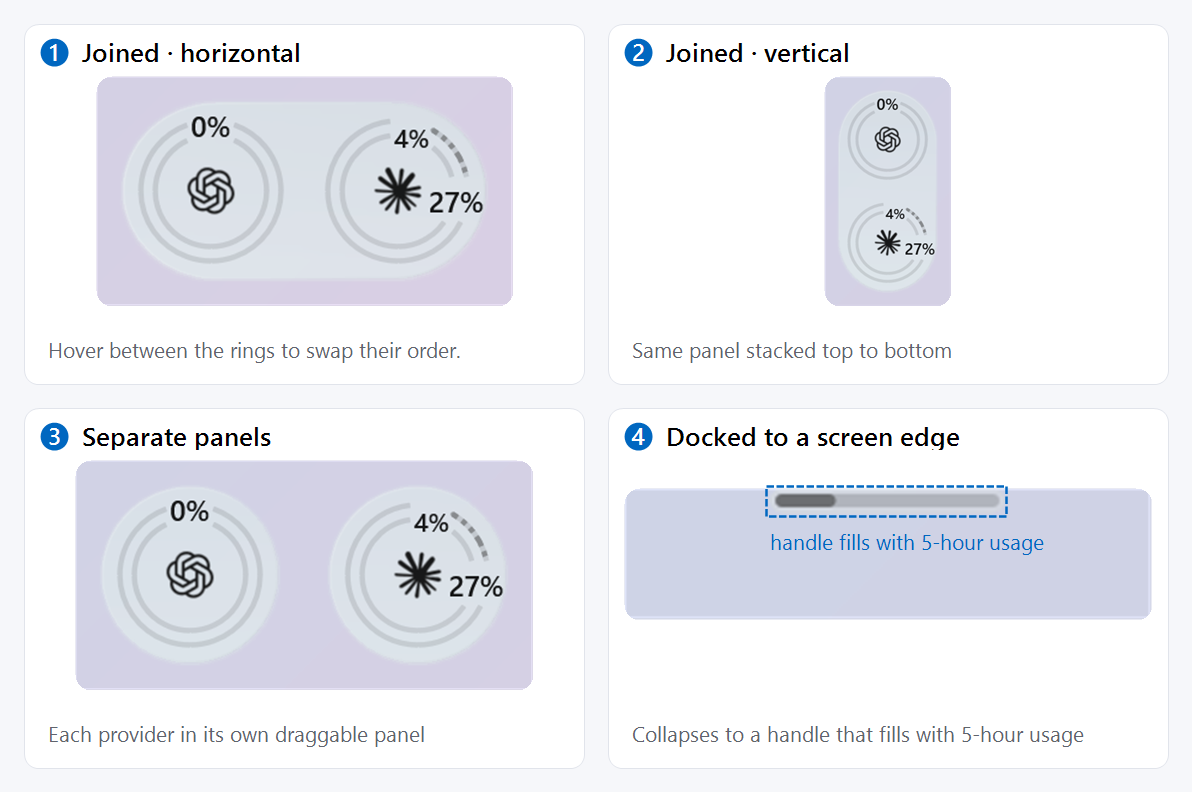
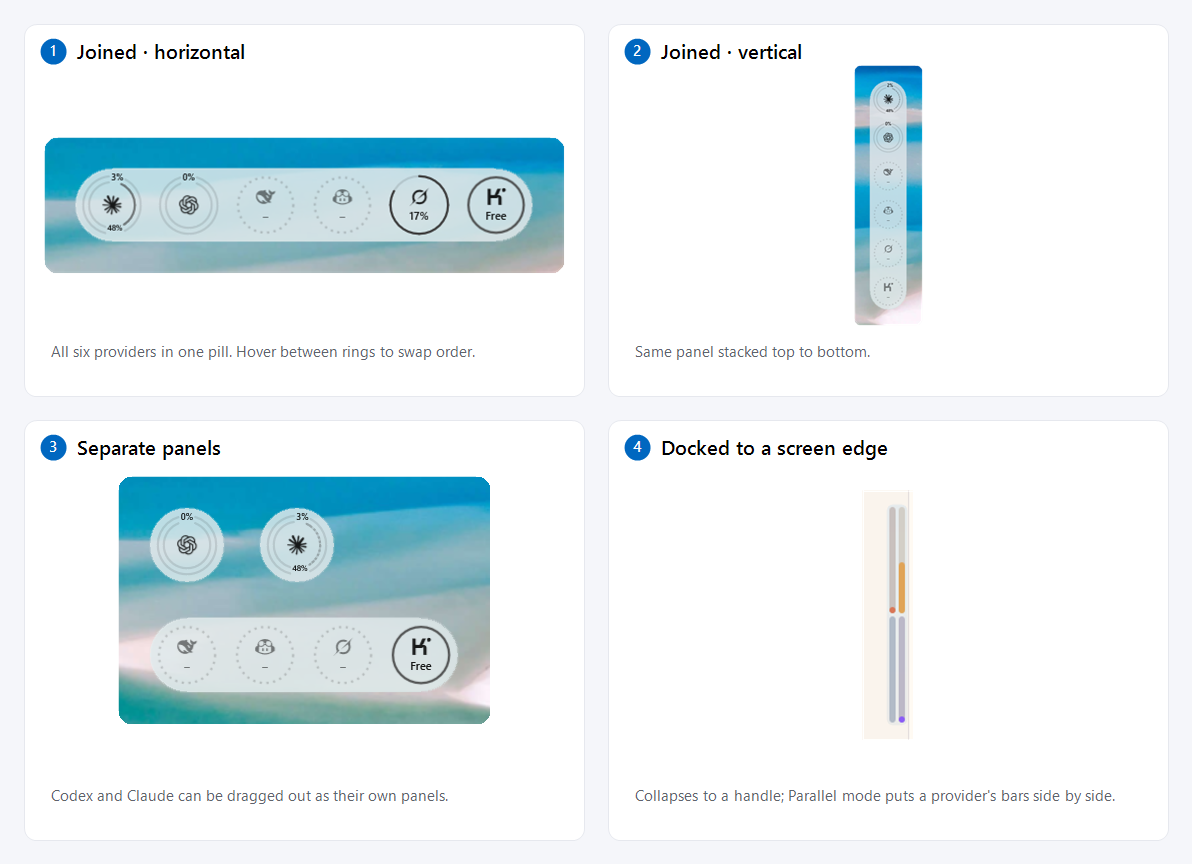
Reorder Settings cards, show all providers in Usage, refresh screenshots and README
Providers now sits above Usage and Taskbar above Auto-hide handle. The Usage card lists Grok, Copilot, Kimi and DeepSeek. Fix the taskbar position labels clashing with the quota 'Left' string and show 'Sign-in required' in English.

diff --git a/SettingsWindow.xaml b/SettingsWindow.xaml
@@ -82,26 +82,8 @@
                 
                     </StackPanel>
                     <StackPanel Spacing="8">
-                        <TextBlock Text="Taskbar" Style="{StaticResource Section}" />
-                <StackPanel Style="{StaticResource Card}">
-                    <Grid Style="{StaticResource Row}">
-                        <TextBlock Text="Taskbar meter" VerticalAlignment="Center" />
-                        <ToggleSwitch x:Name="TaskbarToggle" HorizontalAlignment="Right" OnContent="" OffContent="" MinWidth="0" Toggled="Taskbar_Changed" />
-                    </Grid>
-                    <Grid Style="{StaticResource Row}">
-                        <TextBlock Text="Position" VerticalAlignment="Center" />
-                        <ComboBox x:Name="TaskbarAlignCombo" Width="164" HorizontalAlignment="Right" SelectionChanged="Taskbar_Selection">
-                            <ComboBoxItem Content="Right" />
-                            <ComboBoxItem Content="Left" />
-                        </ComboBox>
-                    </Grid>
-                    <Grid Style="{StaticResource Row}">
-                        <TextBlock Text="Percentage text size" VerticalAlignment="Center" />
-                        <Slider x:Name="TaskbarTextSlider" Width="150" HorizontalAlignment="Right" Minimum="6" Maximum="16" StepFrequency="1" ValueChanged="TaskbarText_Changed" />
-                    </Grid>
-                </StackPanel>
-
-                
+                        <TextBlock Text="Providers" Style="{StaticResource Section}" />
+                        <StackPanel x:Name="ExperimentalCard" Style="{StaticResource Card}" />
                     </StackPanel>
                     <StackPanel Spacing="8">
                         <TextBlock Text="Usage" Style="{StaticResource Section}" />
@@ -110,6 +92,10 @@
                         <StackPanel VerticalAlignment="Center" Spacing="2" Margin="0,0,16,0">
                             <TextBlock x:Name="CodexStatusText" Text="Codex · checking…" Style="{StaticResource Caption}" />
                             <TextBlock x:Name="ClaudeStatusText" Text="Claude · checking…" Style="{StaticResource Caption}" />
+                            <TextBlock x:Name="GrokStatusText" Visibility="Collapsed" Style="{StaticResource Caption}" />
+                            <TextBlock x:Name="CopilotStatusText" Visibility="Collapsed" Style="{StaticResource Caption}" />
+                            <TextBlock x:Name="KimiStatusText" Visibility="Collapsed" Style="{StaticResource Caption}" />
+                            <TextBlock x:Name="DeepSeekStatusText" Visibility="Collapsed" Style="{StaticResource Caption}" />
                         </StackPanel>
                         <Button Content="Refresh" HorizontalAlignment="Right" VerticalAlignment="Center" Click="RefreshUsage_Click" />
                     </Grid>
@@ -130,10 +116,6 @@
                 </StackPanel>
 
                 
-                    </StackPanel>
-                    <StackPanel Spacing="8">
-                        <TextBlock Text="Providers" Style="{StaticResource Section}" />
-                        <StackPanel x:Name="ExperimentalCard" Style="{StaticResource Card}" />
                     </StackPanel>
                 </StackPanel>
                 <StackPanel x:Name="RightColumn" Grid.Column="1" Spacing="16">
@@ -198,6 +180,28 @@
                 
                     </StackPanel>
                     <StackPanel Spacing="8">
+                        <TextBlock Text="Taskbar" Style="{StaticResource Section}" />
+                <StackPanel Style="{StaticResource Card}">
+                    <Grid Style="{StaticResource Row}">
+                        <TextBlock Text="Taskbar meter" VerticalAlignment="Center" />
+                        <ToggleSwitch x:Name="TaskbarToggle" HorizontalAlignment="Right" OnContent="" OffContent="" MinWidth="0" Toggled="Taskbar_Changed" />
+                    </Grid>
+                    <Grid Style="{StaticResource Row}">
+                        <TextBlock Text="Position" VerticalAlignment="Center" />
+                        <ComboBox x:Name="TaskbarAlignCombo" Width="164" HorizontalAlignment="Right" SelectionChanged="Taskbar_Selection">
+                            <ComboBoxItem Content="Right side" />
+                            <ComboBoxItem Content="Left side" />
+                        </ComboBox>
+                    </Grid>
+                    <Grid Style="{StaticResource Row}">
+                        <TextBlock Text="Percentage text size" VerticalAlignment="Center" />
+                        <Slider x:Name="TaskbarTextSlider" Width="150" HorizontalAlignment="Right" Minimum="6" Maximum="16" StepFrequency="1" ValueChanged="TaskbarText_Changed" />
+                    </Grid>
+                </StackPanel>
+
+                
+                    </StackPanel>
+                    <StackPanel Spacing="8">
                         <TextBlock Text="Auto-hide handle" Style="{StaticResource Section}" />
                 <StackPanel x:Name="HandleCard" Style="{StaticResource Card}">
                     <Grid x:Name="Codex5Row" Style="{StaticResource Row}">
@@ -226,7 +230,7 @@
                     </Grid>
                     <Grid Style="{StaticResource Row}">
                         <TextBlock Text="Multiple bars" VerticalAlignment="Center" />
-                        <ComboBox x:Name="HandleModeCombo" Width="164" HorizontalAlignment="Right" SelectionChanged="Handle_Selection">
+                        <ComboBox x:Name="HandleModeCombo" Width="210" HorizontalAlignment="Right" SelectionChanged="Handle_Selection">
                             <ComboBoxItem Content="Stacked (thicker)" />
                             <ComboBoxItem Content="Combined (longer)" />
                             <ComboBoxItem Content="Parallel per provider" />

diff --git a/Loc.cs b/Loc.cs
@@ -95,9 +95,9 @@ internal static class Loc
         ["Panel"] = "面板", ["Start with Windows"] = "开机自动启动", ["Show"] = "显示", ["Layout"] = "布局", ["Joined"] = "合并", ["Separate"] = "分开",
         ["Direction"] = "方向", ["Horizontal"] = "水平", ["Vertical"] = "垂直", ["Always on top"] = "始终置顶",
         ["Snap to edges"] = "吸附屏幕边缘", ["Auto-hide at edge"] = "靠边自动隐藏",
-        ["Taskbar"] = "任务栏", ["Taskbar meter"] = "任务栏指示器", ["Position"] = "位置", ["Right"] = "右侧", ["Left"] = "左侧",
+        ["Taskbar"] = "任务栏", ["Taskbar meter"] = "任务栏指示器", ["Position"] = "位置", ["Right side"] = "右侧", ["Left side"] = "左侧",
         ["Auto-hide handle"] = "自动隐藏手柄", ["Multiple bars"] = "多条显示", ["Stacked (thicker)"] = "并排（更粗）",
-        ["Combined (longer)"] = "首尾相接（更长）", ["Parallel per provider"] = "同一服务并排，不同服务首尾相接", ["Thickness"] = "粗细", ["Length"] = "长度",
+        ["Combined (longer)"] = "首尾相接（更长）", ["Parallel per provider"] = "同服务并排，跨服务相接", ["Thickness"] = "粗细", ["Length"] = "长度",
         ["Percentage text size"] = "百分比文字大小", ["Experimental"] = "实验性",
         ["DeepSeek balance"] = "DeepSeek 余额", ["Kimi balance"] = "Kimi 余额",
         ["Providers"] = "服务商", ["Weekly"] = "每周", ["used"] = "已用", ["Outer ring: "] = "外圈：", ["Inner ring: "] = "内圈：",
@@ -114,8 +114,8 @@ internal static class Loc
         ["Add your DeepSeek API key in Settings"] = "请在设置中添加 DeepSeek API 密钥",
         ["Add a Kimi API key or sign in under Settings"] = "请在设置中添加 Kimi API 密钥或登录",
         ["Kimi sign-in expired · sign in again"] = "Kimi 登录已过期 · 请重新登录",
-        ["Kimi Code plan has no usage quota"] = "Kimi Code 套餐没有用量额度", ["Copilot chat/completions · experimental"] = "Copilot 聊天/补全 · 实验性",
-        ["Copilot · no metered usage · experimental"] = "Copilot · 无计量用量 · 实验性",
+        ["Kimi Code plan has no usage quota"] = "Kimi Code 套餐没有用量额度", ["Copilot chat/completions"] = "Copilot 聊天/补全 · 实验性",
+        ["Copilot · no metered usage"] = "Copilot · 无计量用量 · 实验性",
         ["Kimi Code plan · experimental"] = "Kimi Code 套餐 · 实验性", ["Kimi Code plan"] = "Kimi Code 套餐",
         ["Sign in"] = "登录", ["Sign in again"] = "重新登录", ["Cancel"] = "取消", ["OK"] = "确定",
         ["Grok sign-in detected. Uses its saved login; no key needed."] = "已检测到 Grok 登录。使用其已保存的登录，无需密钥。",
@@ -137,8 +137,8 @@ internal static class Loc
         ["Quota unavailable (network error)"] = "额度不可用（网络错误）", ["Quota request timed out"] = "额度请求超时", ["Quota unavailable"] = "额度不可用",
         ["Could not read Grok quota"] = "无法读取 Grok 额度", ["Could not read Copilot quota"] = "无法读取 Copilot 额度",
         ["No quota returned for this account"] = "此账户未返回额度",
-        ["SuperGrok credits · experimental"] = "SuperGrok 额度 · 实验性",
-        ["Copilot premium requests · experimental"] = "Copilot 高级请求 · 实验性",
+        ["SuperGrok credits"] = "SuperGrok 额度 · 实验性",
+        ["Copilot premium requests"] = "Copilot 高级请求 · 实验性",
         ["Copilot · no metered premium requests · experimental"] = "Copilot · 无计量的高级请求 · 实验性",
         ["Used"] = "已用", ["Left"] = "剩余", ["Resets"] = "重置", ["Plan"] = "套餐",
         ["Premium requests"] = "高级请求", ["Chat"] = "聊天", ["Completions"] = "补全", ["Unlimited"] = "无限",
@@ -168,7 +168,7 @@ internal static class Loc
             "修复方法：在终端运行 claude 并登录（/login），然后发送一条消息。桌面应用不会为此圆环提供数据。",
         ["Granted"] = "赠送", ["Topped up"] = "充值", ["Available"] = "可用", ["Cash"] = "现金", ["Voucher"] = "代金券",
         // states
-        ["Live"] = "实时", ["Stale"] = "缓存", ["Loading"] = "加载中", ["SignInRequired"] = "需要登录",
+        ["Live"] = "实时", ["Stale"] = "缓存", ["Loading"] = "加载中", ["SignInRequired"] = "需要登录", ["Sign-in required"] = "需要登录",
         // messages
         ["Checking usage…"] = "正在检查用量…", ["Checking balance…"] = "正在检查余额…", ["Awaiting refresh"] = "等待刷新",
         ["Account quota · percent used"] = "账户配额 · 已用百分比", ["Quota unavailable for this account"] = "此账户无可用配额",

diff --git a/Usage/QuotaBalances.cs b/Usage/QuotaBalances.cs
@@ -35,7 +35,7 @@ public sealed partial class BalanceProviders
             byte[] body = await response.Content.ReadAsByteArrayAsync(cancellation);
             if (!GrokBilling.TryParse(body, DateTimeOffset.UtcNow.ToUnixTimeSeconds(), out double used, out long? reset))
                 return BalanceSnapshot.Failure(name, "Could not read Grok quota", noun: "quota");
-            return Quota(name, used, reset, [], "SuperGrok credits · experimental");
+            return Quota(name, used, reset, [], "SuperGrok credits");
         }
         catch (OperationCanceledException) when (!cancellation.IsCancellationRequested) { return BalanceSnapshot.Failure(name, "Quota request timed out", noun: "quota"); }
         catch (Exception error) when (error is HttpRequestException or FormatException) { return BalanceSnapshot.Failure(name, "Could not read Grok quota", noun: "quota"); }
@@ -79,7 +79,7 @@ public sealed partial class BalanceProviders
                 details.Add(new(label, $"{remaining:0.#}% left{count}"));
             }
             if (windows.Count == 0)
-                return new(name, UsageState.Live, "∞", details, DateTimeOffset.UtcNow, "Copilot · no metered usage · experimental", "quota");
+                return new(name, UsageState.Live, "∞", details, DateTimeOffset.UtcNow, "Copilot · no metered usage", "quota");
             DateTimeOffset? reset = null;
             if ((Text(root, "quota_reset_date_utc") ?? Text(root, "quota_reset_date")) is { } text
                 && DateTimeOffset.TryParse(text, CultureInfo.InvariantCulture, DateTimeStyles.AssumeUniversal, out var date))
@@ -89,7 +89,7 @@ public sealed partial class BalanceProviders
             // Premium requests are the headline when the plan has them; otherwise the most-used of chat/completions.
             double headline = windows.Any(w => w.Name == "premium") ? windows.First(w => w.Name == "premium").UsedPercent : windows.Max(w => w.UsedPercent);
             return new(name, UsageState.Live, $"{100 - headline:0}%", details, DateTimeOffset.UtcNow,
-                windows.Any(w => w.Name == "premium") ? "Copilot premium requests · experimental" : "Copilot chat/completions · experimental", "quota", windows);
+                windows.Any(w => w.Name == "premium") ? "Copilot premium requests" : "Copilot chat/completions", "quota", windows);
         }
         catch (OperationCanceledException) when (!cancellation.IsCancellationRequested) { return BalanceSnapshot.Failure(name, "Quota request timed out", noun: "quota"); }
         catch (Exception error) when (error is HttpRequestException or JsonException or FormatException) { return BalanceSnapshot.Failure(name, "Could not read Copilot quota", noun: "quota"); }

diff --git a/SettingsWindow.xaml.cs b/SettingsWindow.xaml.cs
@@ -249,19 +249,37 @@ public sealed partial class SettingsWindow : Window
         _preferences.LabelSize = LabelSizeSlider.Value;
         _changed();
     }
+    private static string StateText(Usage.UsageState state) => Loc.T(state == Usage.UsageState.SignInRequired ? "Sign-in required" : state.ToString());
     // One short line per provider; the full details are in the panel tooltip.
     private static string Status(Usage.UsageSnapshot snapshot, DateTimeOffset now)
     {
-        string text = $"{snapshot.Provider} · {Loc.T(snapshot.State.ToString())}";
+        string text = $"{snapshot.Provider} · {StateText(snapshot.State)}";
         if (snapshot.Windows.Count > 0) text += " · " + snapshot.Summary(now).TrimStart('~', ' ');
         if (snapshot.State != Usage.UsageState.Live && snapshot.Message.Length > 0) text += "\n" + Loc.T(snapshot.Message);
         return text;
     }
-    public void UpdateUsage(Usage.UsageSnapshot codex, Usage.UsageSnapshot claude)
+    private static string Status(Usage.BalanceSnapshot snapshot)
+    {
+        string text = $"{snapshot.Provider} · {StateText(snapshot.State)}";
+        if (snapshot.State is Usage.UsageState.Live or Usage.UsageState.Stale) text += " · " + snapshot.Summary.Replace(snapshot.Provider + " ", "");
+        if (snapshot.State != Usage.UsageState.Live && snapshot.Message.Length > 0) text += "\n" + Loc.T(snapshot.Message);
+        return text;
+    }
+    private void ShowStatus(TextBlock box, string key, Usage.BalanceSnapshot snapshot)
+    {
+        bool shown = _preferences.IsShown(key);
+        box.Visibility = shown ? Visibility.Visible : Visibility.Collapsed;
+        if (shown) box.Text = Status(snapshot);
+    }
+    public void UpdateUsage(Usage.UsageSnapshot codex, Usage.UsageSnapshot claude, Usage.BalanceSnapshot grok, Usage.BalanceSnapshot copilot, Usage.BalanceSnapshot kimi, Usage.BalanceSnapshot deepSeek)
     {
         var now = DateTimeOffset.UtcNow;
         CodexStatusText.Text = Status(codex, now);
         ClaudeStatusText.Text = Status(claude, now);
+        ShowStatus(GrokStatusText, "Grok", grok);
+        ShowStatus(CopilotStatusText, "Copilot", copilot);
+        ShowStatus(KimiStatusText, "Kimi", kimi);
+        ShowStatus(DeepSeekStatusText, "DeepSeek", deepSeek);
     }
     private void RefreshUsage_Click(object sender, RoutedEventArgs e) => RefreshUsageRequested?.Invoke();
     private void RefreshInterval_Changed(object sender, SelectionChangedEventArgs e)

diff --git a/App.xaml.cs b/App.xaml.cs
@@ -98,7 +98,7 @@ public partial class App : Application
         _taskbar.UpdateUsage(_usage.Codex, _usage.Claude, _usage.DeepSeek, _usage.Kimi, _usage.Grok, _usage.Copilot);
         var quotas = _usage.Quotas;
         foreach (var panel in _panels) { panel.UpdateUsage(quotas); panel.UpdateBalances(_usage.DeepSeek, _usage.Kimi, _usage.Grok, _usage.Copilot); }
-        _settings?.UpdateUsage(_usage.Codex, _usage.Claude);
+        _settings?.UpdateUsage(_usage.Codex, _usage.Claude, _usage.Grok, _usage.Copilot, _usage.Kimi, _usage.DeepSeek);
     }
 
     private void ApplyLanguage()

diff --git a/README.md b/README.md
@@ -9,7 +9,9 @@ Just another simple floating/taskbar monitor, that's all of it.
 
 For your AI usage in WinUI3 style, with Mica and Arcylic material.
 
-一个简单的 WinUI3 风格的 AI 用量显示悬浮窗，可选云母、亚克力材质，支持Claude、ChatGPT、Deepseek（实验性）和KIMI（实验性）。
+Providers: Claude Code and Codex (ChatGPT) quotas, GitHub Copilot and Grok (xAI) quotas, plus experimental DeepSeek and Kimi (API balance, and the Kimi Code plan quota after a browser sign-in). Each one is a toggle in Settings → Providers; Grok and Copilot reuse the sign-in you already have, or sign in from Settings.
+
+一个简单的 WinUI3 风格的 AI 用量显示悬浮窗，可选云母、亚克力材质，支持 Claude、ChatGPT（Codex）、GitHub Copilot、Grok，以及实验性的 DeepSeek 和 Kimi。
 
 Simple and native, no expensive settings and fancy UIs. Minimal and clean, click and leave it there.
 
@@ -26,7 +28,7 @@ The `.msixbundle` is self-signed: import `UsageMon-signing-certificate.cer` into
 
 ## UI Screenshots(支持简体中文和英文）
 
-**Panel layouts** — joined or separate, horizontal or vertical, and docked to a screen edge. The percentage text on the rings can be switched on or off in Settings.
+**Panel layouts** — all six providers in a joined or separate panel, horizontal or vertical, and docked to a screen edge as an auto-hide handle (shown in *Parallel per provider* mode: a provider's bars side by side, providers end to end). The percentage text on the rings can be switched on or off in Settings.
 
 ![Panel layouts](docs/panel-layouts.png)
 
@@ -34,11 +36,13 @@ The `.msixbundle` is self-signed: import `UsageMon-signing-certificate.cer` into
 
 ![Taskbar meter](docs/taskbar.png)
 
-**Settings** — light and dark.
+**Provider rings** — Copilot's outer ring is chat and its inner ring completions, Kimi's are 5-hour and weekly, and Grok has a single ring. Hover for the details.
 
-![Settings, light](docs/settings.png)
+![Copilot quota tooltip](docs/providers.png)
 
-![Settings, dark](docs/settings-dark.png)
+**Settings** — one Providers section with a toggle per provider.
+
+![Settings](docs/settings.png)
 
 ## License
 
